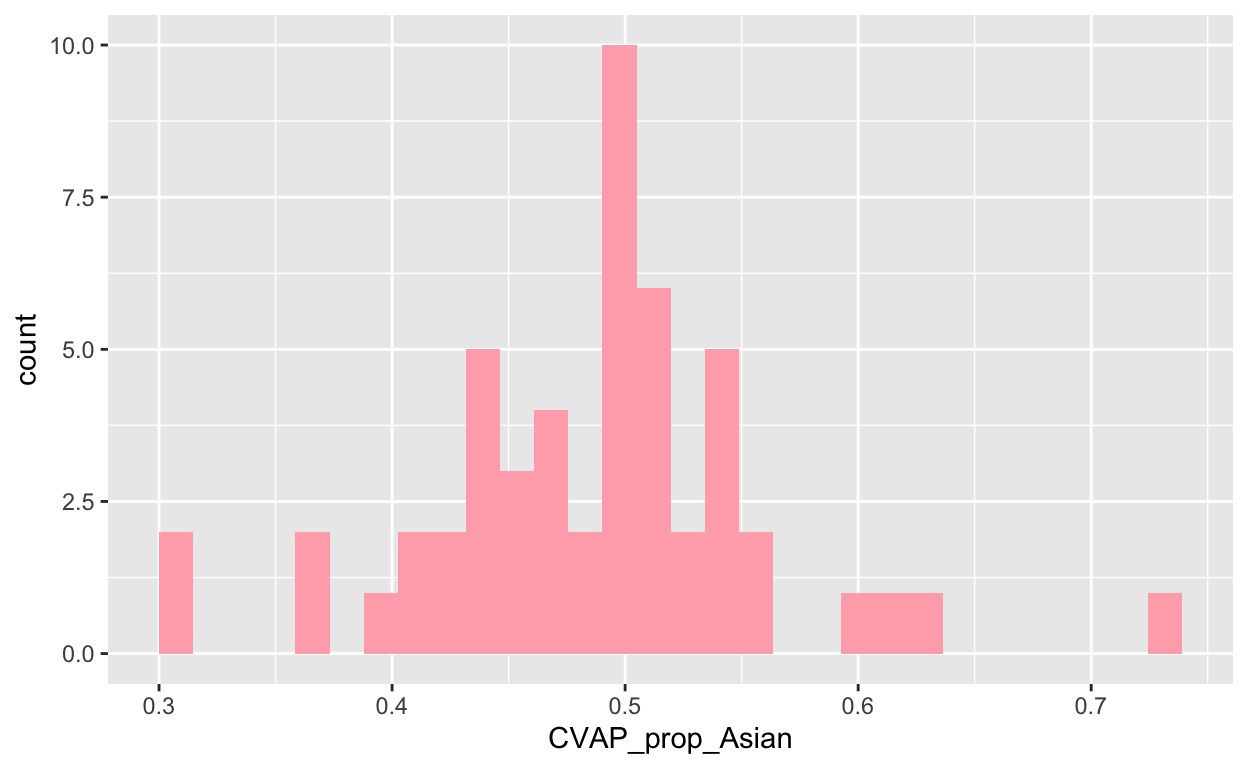
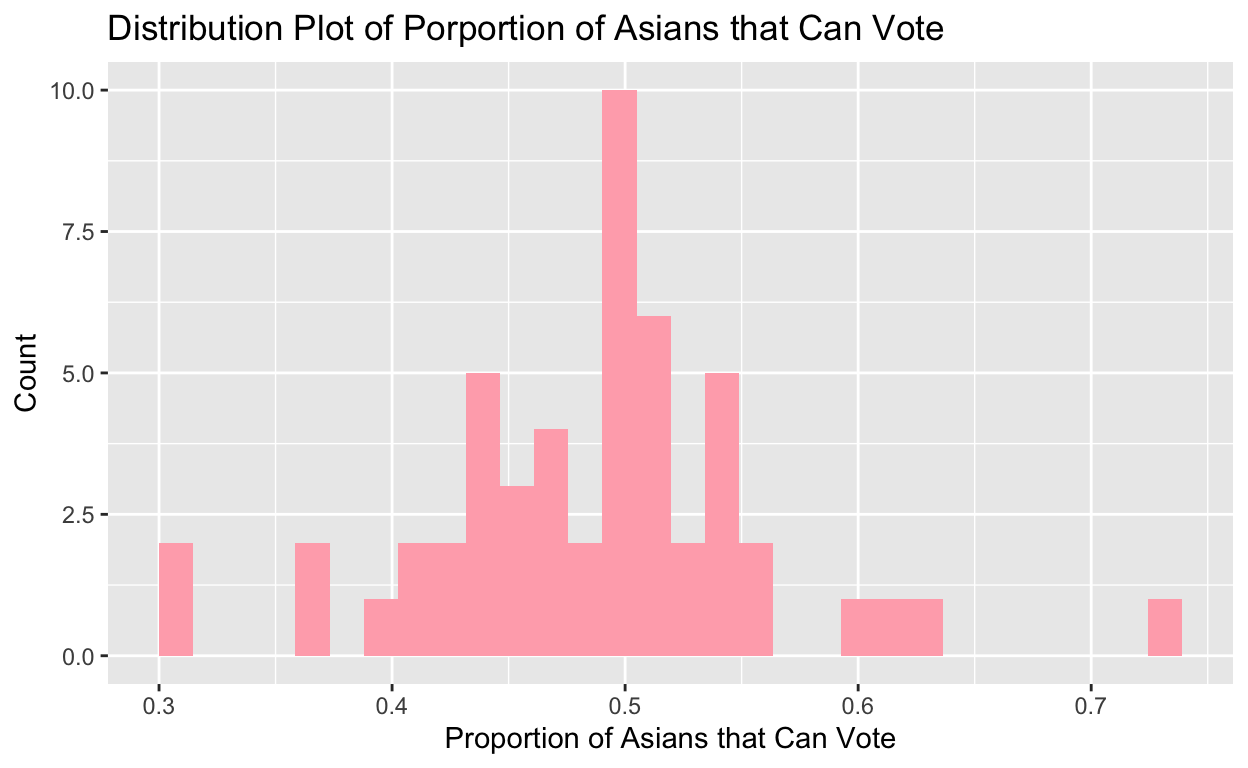
440

diff --git a/index.html b/index.html
@@ -1579,7 +1579,10 @@ CVAP_prop_Asian: The rounded estimate of the total number of Asians that are Uni
 <div class="sourceCode">
 <pre class="sourceCode r"><code class="sourceCode r"><span><span class='va'>cvap_data</span> <span class='op'>|&gt;</span></span>
 <span>  <span class='fu'><a href='https://ggplot2.tidyverse.org/reference/ggplot.html'>ggplot</a></span><span class='op'>(</span><span class='fu'><a href='https://ggplot2.tidyverse.org/reference/aes.html'>aes</a></span><span class='op'>(</span>x <span class='op'>=</span> <span class='va'>CVAP_prop_Asian</span><span class='op'>)</span><span class='op'>)</span> <span class='op'>+</span></span>
-<span>  <span class='fu'><a href='https://ggplot2.tidyverse.org/reference/geom_histogram.html'>geom_histogram</a></span><span class='op'>(</span>fill <span class='op'>=</span> <span class='st'>"lightpink1"</span><span class='op'>)</span></span></code></pre>
+<span>  <span class='fu'><a href='https://ggplot2.tidyverse.org/reference/geom_histogram.html'>geom_histogram</a></span><span class='op'>(</span>fill <span class='op'>=</span> <span class='st'>"lightpink1"</span><span class='op'>)</span> <span class='op'>+</span></span>
+<span>  <span class='fu'><a href='https://ggplot2.tidyverse.org/reference/labs.html'>labs</a></span><span class='op'>(</span>x <span class='op'>=</span> <span class='st'>"Proportion of Asians that Can Vote"</span>,</span>
+<span>       y <span class='op'>=</span> <span class='st'>"Count"</span>,</span>
+<span>       title <span class='op'>=</span> <span class='st'>"Distribution Plot of Porportion of Asians that Can Vote"</span><span class='op'>)</span></span></code></pre>
 </div>
 <p><img src="index_files/figure-html5/unnamed-chunk-3-1.png" width="624" /></p>
 </div>
